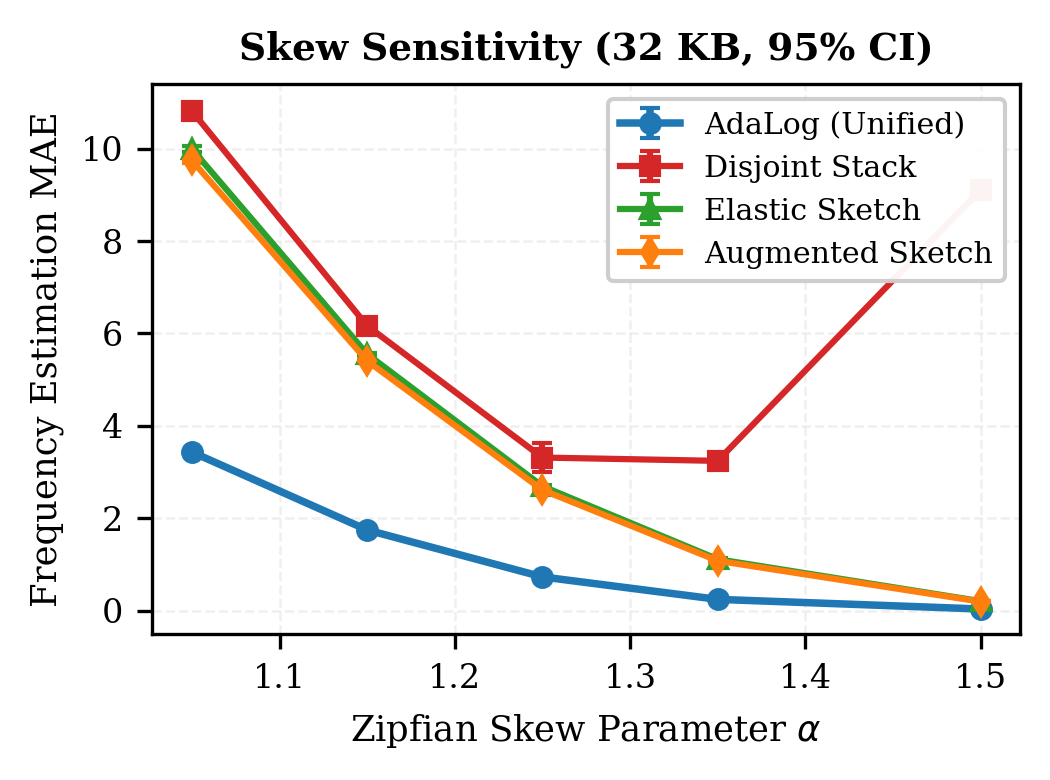
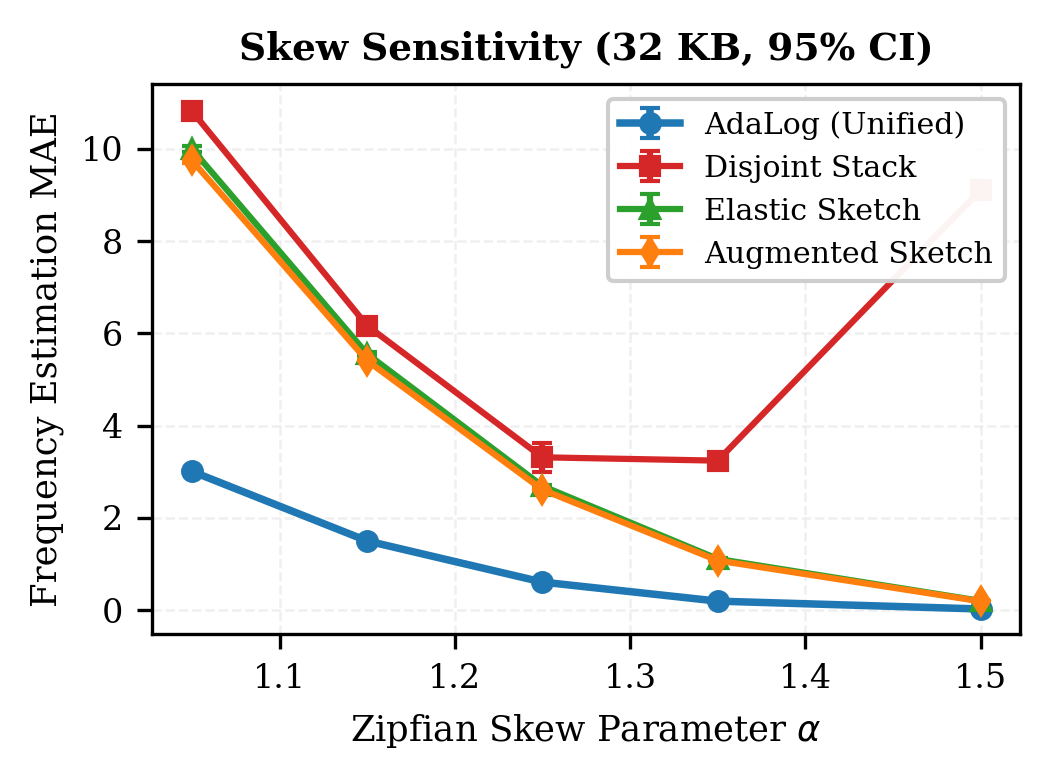
Regenerate Fig. 4 with 2-decimal labels matching Table VII and update validation

diff --git a/experiments/plot_results.py b/experiments/plot_results.py
@@ -167,7 +167,7 @@ def plot_experiment_3():
     ax1.grid(axis="y", linestyle="--", alpha=0.5)
     ax1.set_ylim(0, max(mops) * 1.2)
     for i, v in enumerate(mops):
-        ax1.text(i, v + 0.04, f"{v:.1f}", ha="center", va="bottom", fontsize=7.5, fontweight="bold")
+        ax1.text(i, v + 0.04, f"{v:.2f}", ha="center", va="bottom", fontsize=7.0, fontweight="bold")
 
     # (b) Latency
     ax2.bar(range(len(ns_op)), ns_op, color=colors, width=0.52, edgecolor="#333333", linewidth=0.8)
@@ -179,7 +179,7 @@ def plot_experiment_3():
     ax2.grid(axis="y", linestyle="--", alpha=0.5)
     ax2.set_ylim(0, max(ns_op) * 1.2)
     for i, v in enumerate(ns_op):
-        ax2.text(i, v + 1.0, f"{v:.1f}ns", ha="center", va="bottom", fontsize=7.5, fontweight="bold")
+        ax2.text(i, v + 1.0, f"{v:.2f} ns", ha="center", va="bottom", fontsize=7.0, fontweight="bold")
 
     plt.tight_layout()
     plt.savefig("results/figures/fig3_latency_throughput.png", bbox_inches="tight")

diff --git a/scripts/validate_paper.py b/scripts/validate_paper.py
@@ -52,6 +52,8 @@ env_stack = []
 env_regex = re.compile(r"\\(begin|end)\{([^}]+)\}")
 for match in env_regex.finditer(text):
     op, env_name = match.group(1), match.group(2)
+    if env_name == "@IEEEauthorhalign":
+        continue
     if op == "begin":
         env_stack.append((env_name, match.start()))
     else:
